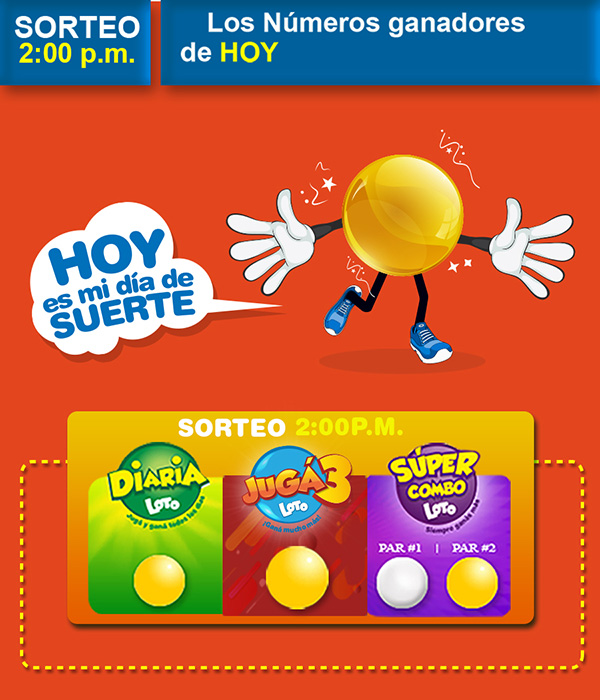
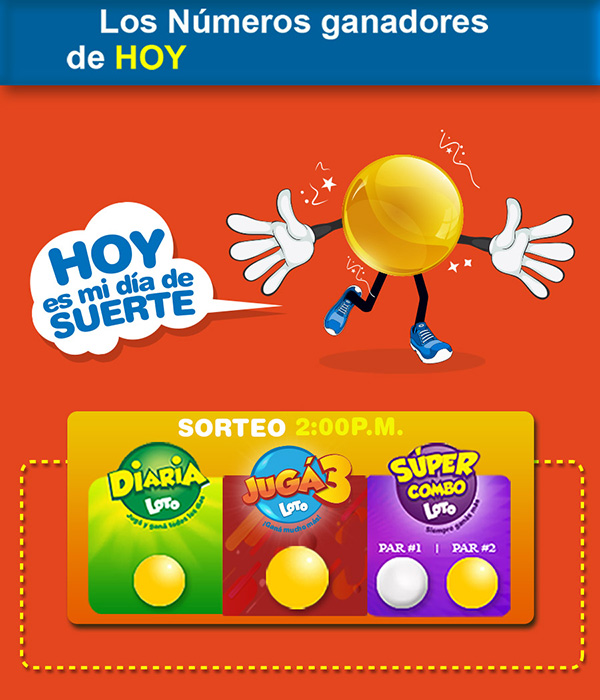
05062018

Changed region(s): [[0.03, 0.0, 0.87, 0.15]]

diff --git a/boletin.css b/boletin.css
@@ -23,6 +23,8 @@
  }
 
  #position2{
+    font-family: 'arial';
+    font-size: 13px;
     position: relative;
     margin-right: 250px;
     margin-left: 60%;
@@ -33,3 +35,25 @@
  }
 
 #img { max-width: 100%; }
+
+.mifuente{
+
+    font-family: 'arial';
+    font-size: 30px;
+    color: yellow;
+}
+
+.mifuente2{
+    font-family: 'arial';
+    font-size: 28px;
+}
+
+.juga3{
+    font-family: 'arial';
+    font-size: 27px;
+}
+
+.lagrandeT2{
+    font-family: 'arial';
+    font-size: 19px;
+}

diff --git a/boletin.php b/boletin.php
@@ -11,10 +11,17 @@
         }
     }
     
+    setlocale(LC_ALL,"es_ES@euro","es_ES","esp");
     $db = conex();
     date_default_timezone_set('America/Managua');
     $hoy = getdate();
     $fechaActual = date('Y-m-d');
+
+    /*Para imprimir la fecha en formato d/m/y*/
+    //$FechaHoy = date('d/m/y');
+    $FechaHoy =  strftime("%d") . ' ' . 'de' . ' '. strftime("%B") . ' ' . 'del'. ' '. strftime("%Y");
+
+
     /** Boletín Diaria */
     $diaria = array();
     $consult = $db->prepare("select par1 from loto_sorteos where fecha = ? and juego = 1
@@ -23,6 +30,7 @@
             while( $row = $consult->fetchAll(PDO::FETCH_OBJ)){
                 $diaria = $row; 
             }
+
     /* Boletín Supercombo */
     $supercombo = array();
     $consult = $db->prepare("select par1, par2 from loto_sorteos where fecha = ? and juego = 2
@@ -31,6 +39,7 @@
             while( $row = $consult->fetchAll(PDO::FETCH_OBJ)){
                 $supercombo = $row; 
             }
+
     /* Boletín Jugá 3*/
     $juga3 = array();
     $consult = $db->prepare("select par1, par2, par3 from loto_sorteos where fecha = ? and juego = 9
@@ -55,8 +64,9 @@
             while( $row = $consult->fetchAll(PDO::FETCH_OBJ)){
                 $lagrande = $row; 
             }   
-            /*
-            print_r($diaria);
+            $juega3;
+            $juega;
+            /*print_r($diaria);
            // print_r($supercombo[0]->par2);
             print_r('<br>');
             print_r($supercombo);
@@ -65,7 +75,39 @@
             print_r('<br>');
             print_r($t2);
             print_r('<br>');
-            print_r($lagrande); */
+            print_r($lagrande);*/
+
+        
+            //array concatenado para jugá3 de las 2:00 pm;
+            if(isset($juga3))
+                {
+                 if(isset($juga3[0]->par1)){
+                    $array =  $juga3[0]->par1;          
+                if(isset( $juga3[0]->par2)){
+                    $array2 =  $juga3[0]->par2;
+                if(isset($juga3[0]->par3)){
+                    $array3 = $juga3[0]->par3;
+                    $juega3 = $array . $array2 . $array3;
+                }
+            }
+        }
+    } 
+
+            //array concatenado para jugá3 de las 9:00 pm;
+            if(isset($juga3))
+                {
+                if(isset($juga3[1]->par1)){
+                    $arreglo =  $juga3[1]->par1;          
+                if(isset( $juga3[1]->par2)){
+                    $arreglo2 =  $juga3[1]->par2;
+                if(isset($juga3[1]->par3)){
+                    $arreglo3 = $juga3[1]->par3;
+                    $juega = $arreglo . $arreglo2 . $arreglo3;
+                }
+            }
+        }
+    }
+            
 ?>
 <!DOCTYPE html>
 <html lang="en">
@@ -82,40 +124,106 @@
         if(isset($_REQUEST['option'])){
             if($_REQUEST['option'] == '1'){
                 ?>
-        <div class="row row-fluid">
-            <div class="col-sm-12">
+
                 <div id="position2">
-                    <img id="img" src="img/img1.jpg" class="position-boletin" alt="img">
-                    <div class="" style="position: absolute; margin-top: 90.4%; margin-left: 23.7%;"><h1 class="mifuente2" style=""><?php  ?>88</h1></div>
-                    <div class="" style="position: absolute; margin-top: 90.2%; margin-left: 45.4%;"><h1 class="mifuente2" style=""><?php  ?>888</h1></div> 
-                    <div class="" style="position: absolute; margin-top: 90.7%; margin-left: 64.4%;"><h1 class="mifuente2" style=""><?php  ?>88</h1></div> 
-                    <div class="" style="position: absolute; margin-top: 90.7%; margin-left: 76.1%;"><h1 class="mifuente2" style=""><?php  ?>88</h1></div>    
+                    <img id="img" src="img/img1.jpg" class="position-boletin" alt="img">                   
+                    <!-- Fecha -->
+                        <div class="" style="position: absolute; margin-top: 3.7%; margin-left: 33.6%;"><h1 class="mifuente" style=""><?php print_r($FechaHoy) ?></h1></div>
+                        
+                        <div class="" style="position: absolute; margin-top: 91.0%; margin-left: 23.9%;"><h1 class="mifuente2" style=""><?php if(isset($diaria[0]->par1)){echo $diaria[0]->par1;} ?></h1></div>
+                        <div class="" style="position: absolute; margin-top: 90.9%; margin-left: 45.5%;"><h1 class="mifuente2" style=""><?php if(isset($juega3)){echo $juega3;} ?></h1></div> 
+                        <div class="" style="position: absolute; margin-top: 91.2%; margin-left: 64.2%;"><h1 class="mifuente2" style=""><?php if(isset($supercombo[0]->par1)){echo $supercombo[0]->par1;} ?></h1></div> 
+                        <div class="" style="position: absolute; margin-top: 91.2%; margin-left: 76.0%;"><h1 class="mifuente2" style=""><?php if(isset($supercombo[0]->par2)){echo $supercombo[0]->par2;} ?></h1></div>  
                 </div>
-            </div>
-        </div>
                 <?php 
             }else if($_REQUEST['option'] == '2'){
                 ?>
                 <div id="position2">
-                <img id="img" src="img/img2.jpg" class="position-boletin" alt="img">
+                    <img id="img" src="img/img2.jpg" class="position-boletin" alt="img">
+                    <!-- Fecha -->
+                    <div class="" style="position: absolute; margin-top: 3.0%; margin-left:33.3%;"><h1 class="mifuente" style=""><?php print_r($FechaHoy) ?></h1></div>
+                    
+                        <!--Sorteo de las 2:00 pm -->
+                        <div class="" style="position: absolute; margin-top: 70.5%; margin-left: 28.4%;"><h1 class="mifuente2" style=""><?php if(isset($diaria[0]->par1)){echo $diaria[0]->par1;} ?></h1></div>
+                        <div class="" style="position: absolute; margin-top: 70.5%; margin-left: 45.6%;"><h1 class="mifuente2" style=""><?php if(isset($juega3)){echo $juega3;} ?></h1></div> 
+                        <div class="" style="position: absolute; margin-top: 70.8%; margin-left: 60.9%;"><h1 class="mifuente2" style=""><?php if(isset($supercombo[0]->par1)){echo $supercombo[0]->par1;} ?></h1></div> 
+                        <div class="" style="position: absolute; margin-top: 70.8%; margin-left: 70.4%;"><h1 class="mifuente2" style=""><?php if(isset($supercombo[0]->par2)){echo $supercombo[0]->par2;} ?></h1></div>
+                
+                        <!--Sorteo de las 9:00 pm -->
+                        <div class="" style="position: absolute; margin-top: 102.5%; margin-left: 28.2%;"><h1 class="mifuente2" style=""><?php if(isset($diaria[1]->par1)){echo $diaria[1]->par1;} ?></h1></div>
+                        <div class="" style="position: absolute; margin-top: 102.2%; margin-left: 45.5%;"><h1 class="mifuente2" style=""><?php if(isset($juega)){echo $juega;} ?></h1></div> 
+                        <div class="" style="position: absolute; margin-top: 102.7%; margin-left: 60.9%;"><h1 class="mifuente2" style=""><?php if(isset($supercombo[1]->par1)){echo $supercombo[1]->par1;} ?></h1></div> 
+                        <div class="" style="position: absolute; margin-top: 102.7%; margin-left: 70.4%;"><h1 class="mifuente2" style=""><?php if(isset($supercombo[1]->par2)){echo $supercombo[1]->par2;} ?></h1></div>
+
                 </div>
+
                 <?php
             }else if($_REQUEST['option'] == 3){
                 ?>
                 <div id="position2">
-                <img id="img" src="img/img3.jpg" class="position-boletin" alt="img">
+                    <img id="img" src="img/img3.jpg" class="position-boletin" alt="img">
+                    <!-- Fecha -->
+                    <div class="" style="position: absolute; margin-top: 3.9%; margin-left:32.3%;"><h1 class="mifuente" style=""><?php print_r($FechaHoy) ?></h1></div>
+
+                        <!--Sorteo de las 2:00 pm -->
+                        <div class="" style="position: absolute; margin-top: 83.5%; margin-left: 19.2%;"><h1 class="mifuente2" style=""><?php if(isset($diaria[0]->par1)){echo $diaria[0]->par1;}  ?></h1></div>
+                        <div class="" style="position: absolute; margin-top: 83.5%; margin-left: 36.6%;"><h1 class="mifuente2" style=""><?php if(isset($juega3)){echo $juega3;}  ?></h1></div> 
+                        <div class="" style="position: absolute; margin-top: 83.8%; margin-left: 52.2%;"><h1 class="mifuente2" style=""><?php if(isset($supercombo[0]->par1)){echo $supercombo[0]->par1;}  ?></h1></div> 
+                        <div class="" style="position: absolute; margin-top: 83.8%; margin-left: 61.7%;"><h1 class="mifuente2" style=""><?php if(isset($supercombo[0]->par2)){echo $supercombo[0]->par2;}  ?></h1></div>
+                        <div class="" style="position: absolute; margin-top: 101.1%; margin-left: 76.2%;"><h1 class="mifuente2" style=""><?php if(isset($t2[0]->par1)){echo $t2[0]->par1;}  ?></h1></div>
+                       
                 </div>
                 <?php
             }else if($_REQUEST['option'] == 4){
                 ?>
                 <div id="position2">
-                <img id="img" src="img/img4.jpg" class="position-boletin" alt="img">
+                    <img id="img" src="img/img4.jpg" class="position-boletin" alt="img">
+                    <!-- Fecha -->
+                    <div class="" style="position: absolute; margin-top: 4.5%; margin-left:32.0%;"><h1 class="mifuente" style=""><?php print_r($FechaHoy) ?></h1></div>
+
+                        <!--Sorteo de las 2:00 pm -->
+                        <div class="" style="position: absolute; margin-top: 70.2%; margin-left: 18.7%;"><h1 class="lagrande" style=""><?php if(isset($diaria[0]->par1)){echo $diaria[0]->par1;} ?></h1></div>
+                        <div class="" style="position: absolute; margin-top: 70.2%; margin-left: 36.3%;"><h1 class="lagrande" style=""><?php if(isset($juega3)){echo $juega3;} ?></h1></div> 
+                        <div class="" style="position: absolute; margin-top: 70.6%; margin-left: 51.5%;"><h1 class="lagrande" style=""><?php if(isset($supercombo[0]->par1)){echo $supercombo[0]->par1;} ?></h1></div> 
+                        <div class="" style="position: absolute; margin-top: 70.6%; margin-left: 61.1%;"><h1 class="lagrande" style=""><?php if(isset($supercombo[0]->par2)){echo $supercombo[0]->par2;} ?></h1></div>
+                        <div class="" style="position: absolute; margin-top: 70.2%; margin-left: 75.9%;"><h1 class="lagrande" style=""><?php if(isset($t2[0]->par1)){echo $t2[0]->par1;}  ?>88</h1></div>
+                        
+                        <!--Sorteo de las 9:00 pm -->
+                        <div class="" style="position: absolute; margin-top: 103.0%; margin-left: 28.5%;"><h1 class="lagrande" style=""><?php if(isset($diaria[1]->par1)){echo $diaria[1]->par1;}  ?></h1></div>
+                        <div class="" style="position: absolute; margin-top: 103.0%; margin-left: 46.0%;"><h1 class="lagrande" style=""><?php if(isset($juega)){echo $juega;}  ?></h1></div> 
+                        <div class="" style="position: absolute; margin-top: 103.5%; margin-left: 61.2%;"><h1 class="lagrande" style=""><?php if(isset($supercombo[1]->par1)){echo $supercombo[1]->par1;}  ?></h1></div> 
+                        <div class="" style="position: absolute; margin-top: 103.5%; margin-left: 70.7%;"><h1 class="lagrande" style=""><?php if(isset($supercombo[1]->par2)){echo $supercombo[1]->par2;} ?></h1></div>
+                    
+            
                 </div>
                 <?php
             }else if($_REQUEST['option'] == 5){
                 ?>
                 <div id="position2">
-                <img id="img" src="img/img5.jpg" class="position-boletin"alt="img">
+                    <img id="img" src="img/img5.jpg" class="position-boletin"alt="img">
+                    <!-- Fecha -->
+                   <div class="" style="position: absolute; margin-top: 4.8%; margin-left:31.9%;"><h1 class="mifuente" style=""><?php print_r($FechaHoy) ?></h1></div>
+                        
+                        <!--Sorteo de las 2:00 pm -->
+                        <div class="" style="position: absolute; margin-top: 78.2%; margin-left: 12.0%;"><h1 class="lagrandeT2" style=""><?php if(isset($diaria[0]->par1)){echo $diaria[0]->par1;} ?></h1></div>
+                        <div class="" style="position: absolute; margin-top: 78.0%; margin-left: 24.1%;"><h1 class="lagrandeT2" style=""><?php if(isset($juega3)){echo $juega3;}  ?></h1></div> 
+                        <div class="" style="position: absolute; margin-top: 78.3%; margin-left: 35.0%;"><h1 class="lagrandeT2" style=""><?php if(isset($supercombo[0]->par1)){echo $supercombo[0]->par1;}  ?></h1></div> 
+                        <div class="" style="position: absolute; margin-top: 78.3%; margin-left: 41.7%;"><h1 class="lagrandeT2" style=""><?php if(isset($supercombo[0]->par2)){echo $supercombo[0]->par2;}  ?></h1></div>
+
+                        <!--Sorteo de las 9:00 pm -->
+                        <div class="" style="position: absolute; margin-top: 78.2%; margin-left: 57.3%;"><h1 class="lagrandeT2" style=""><?php if(isset($diaria[1]->par1)){echo $diaria[1]->par1;}  ?></h1></div>
+                        <div class="" style="position: absolute; margin-top: 78.0%; margin-left: 69.5%;"><h1 class="lagrandeT2" style=""><?php if(isset($juega)){echo $juega;}  ?></h1></div> 
+                        <div class="" style="position: absolute; margin-top: 78.3%; margin-left: 80.3%;"><h1 class="lagrandeT2" style=""><?php if(isset($supercombo[1]->par1)){echo $supercombo[1]->par1;}  ?></h1></div> 
+                        <div class="" style="position: absolute; margin-top: 78.3%; margin-left: 87.0%;"><h1 class="lagrandeT2" style=""><?php if(isset($supercombo[1]->par2)){echo $supercombo[1]->par2;}  ?></h1></div>
+
+                        <!--Sorteo la grande 9:00 pm-->
+                        <div class="" style="position: absolute; margin-top: 98.5%; margin-left: 33.5%;"><h1 class="lagrandeT2" style=""><?php if(isset($lagrande[0]->par1)){echo $lagrande[0]->par1;} ?></h1></div>
+                        <div class="" style="position: absolute; margin-top: 98.5%; margin-left: 42.9%;"><h1 class="lagrandeT2" style=""><?php if(isset($lagrande[0]->par2)){echo $lagrande[0]->par2;} ?></h1></div>
+                        <div class="" style="position: absolute; margin-top: 98.5%; margin-left: 52.0%;"><h1 class="lagrandeT2" style=""><?php if(isset($lagrande[0]->par3)){echo $lagrande[0]->par3;} ?></h1></div> 
+                        <div class="" style="position: absolute; margin-top: 98.5%; margin-left: 60.8%;"><h1 class="lagrandeT2" style=""><?php if(isset($lagrande[0]->par4)){echo $lagrande[0]->par4;} ?></h1></div> 
+                        <div class="" style="position: absolute; margin-top: 98.5%; margin-left: 70.1%;"><h1 class="lagrandeT2" style=""><?php if(isset($lagrande[0]->par5)){echo $lagrande[0]->par5;} ?></h1></div>
+                        <div class="" style="position: absolute; margin-top: 98.5%; margin-left: 80.0%;"><h1 class="lagrandeT2" style=""><?php if(isset($lagrande[0]->par6)){echo $lagrande[0]->par6;} ?></h1></div>
+                        
                 </div>
                 <?php
             }
